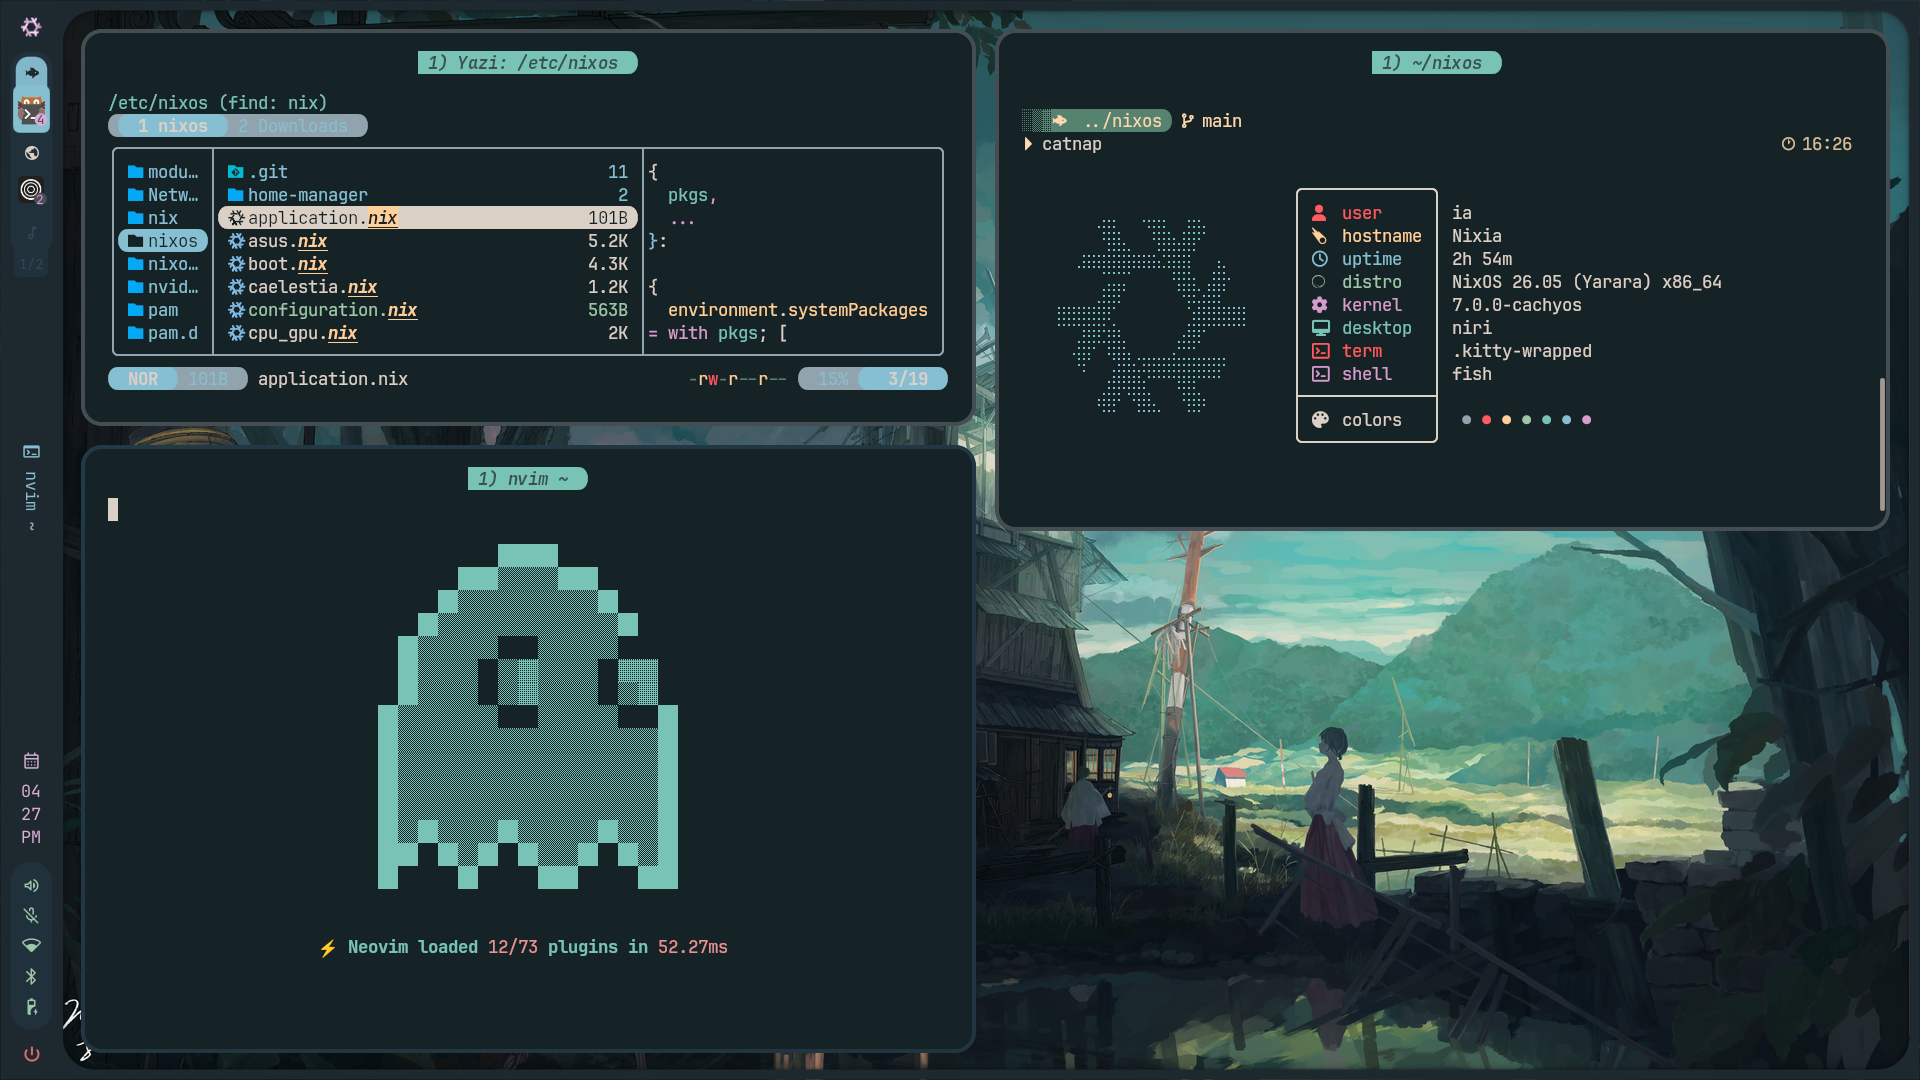
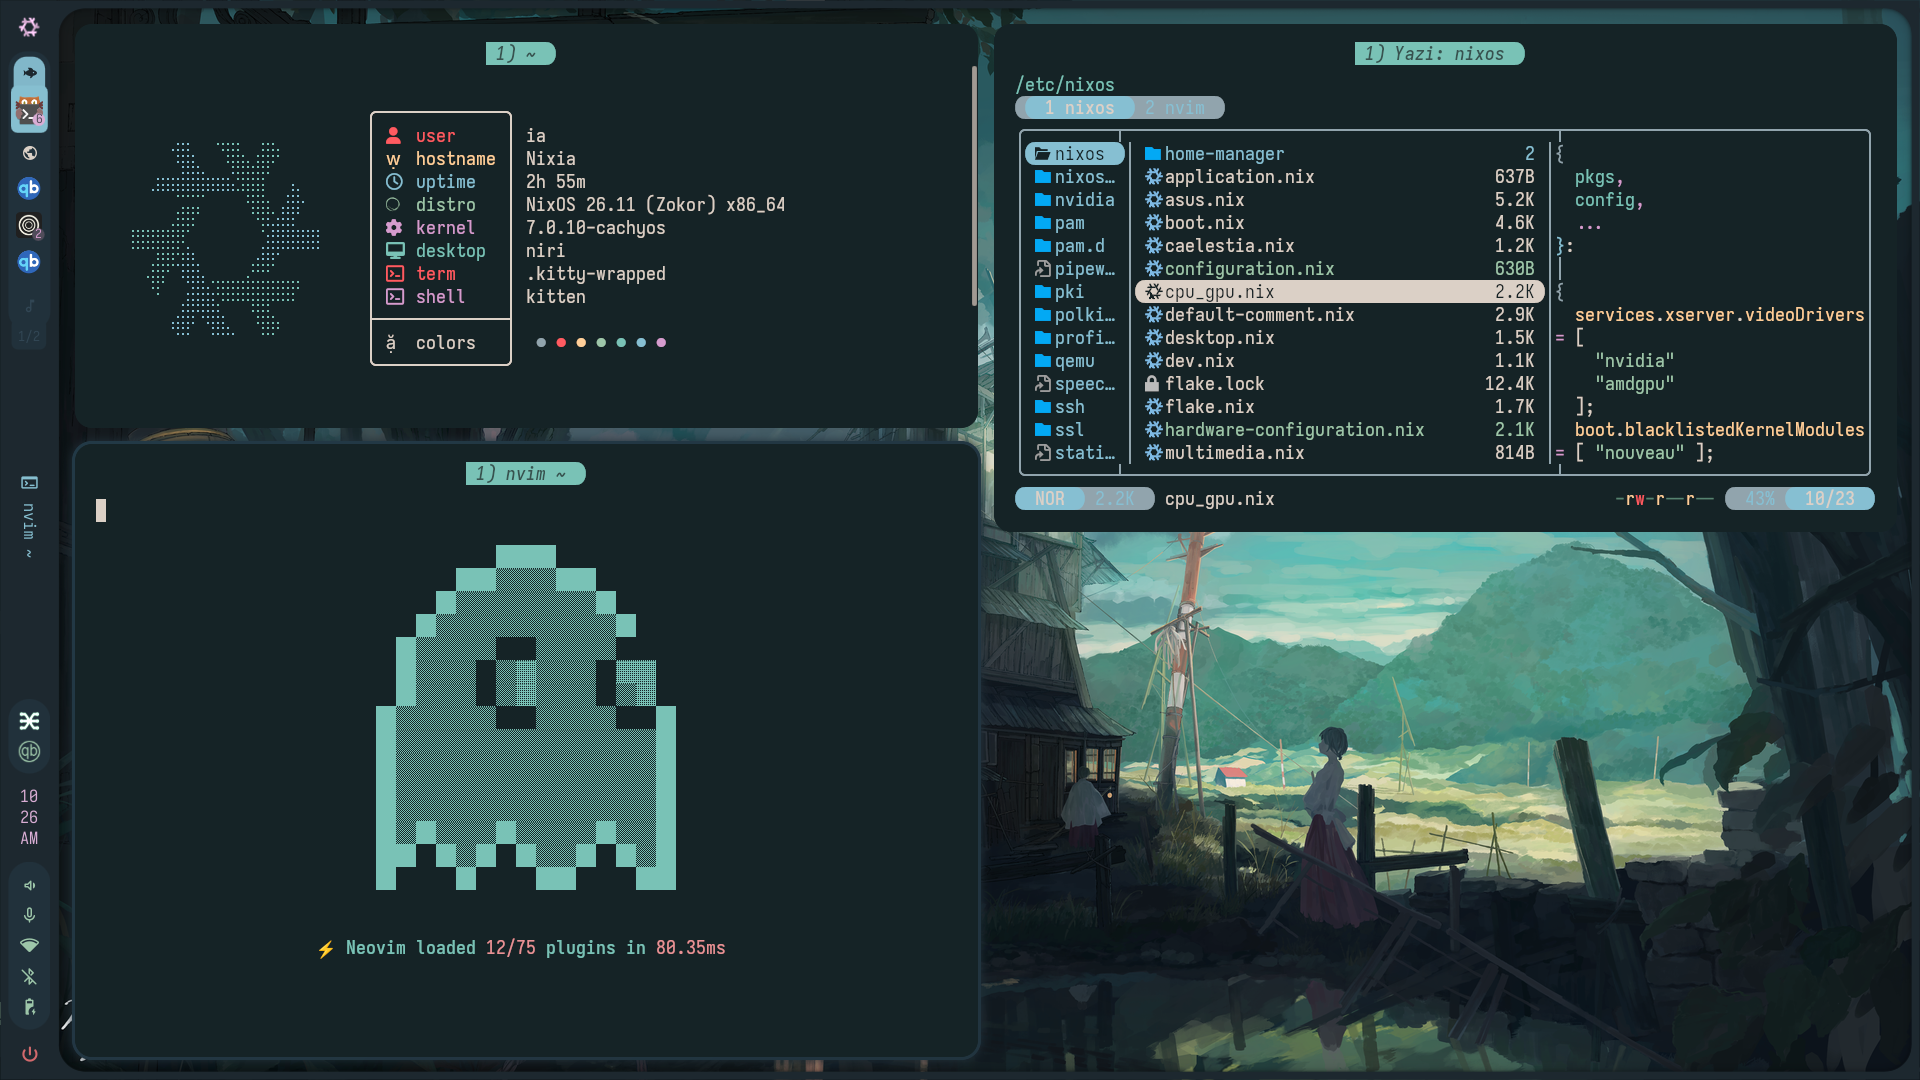
docs(readme): update readme

diff --git a/README.md b/README.md
@@ -1,7 +1,8 @@
 # Nixia
 
 NixOS flake-based configuration for a personal desktop/laptop.
-- **Version**: **26.05 (Yarara)**
+
+- **Version**: **26.11 (Zokor)**
 - **Channel**: **NixOS-Unstable**
 
 ![Desktop screenshot](./assets/screenshot.png)
